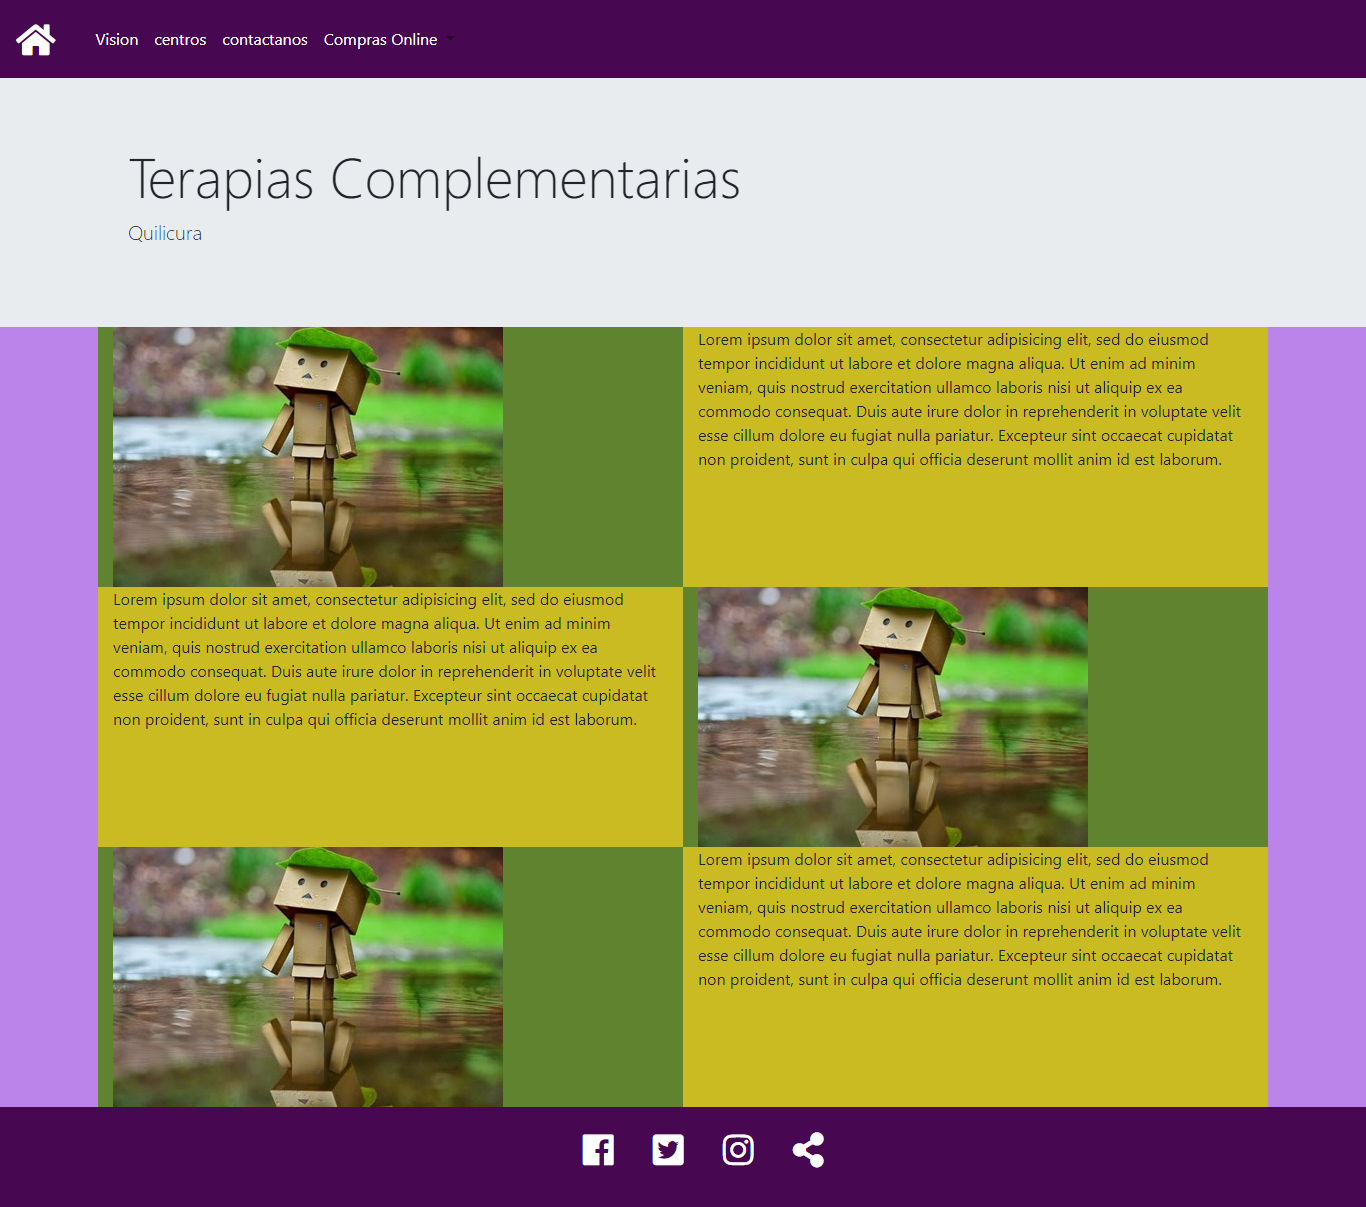
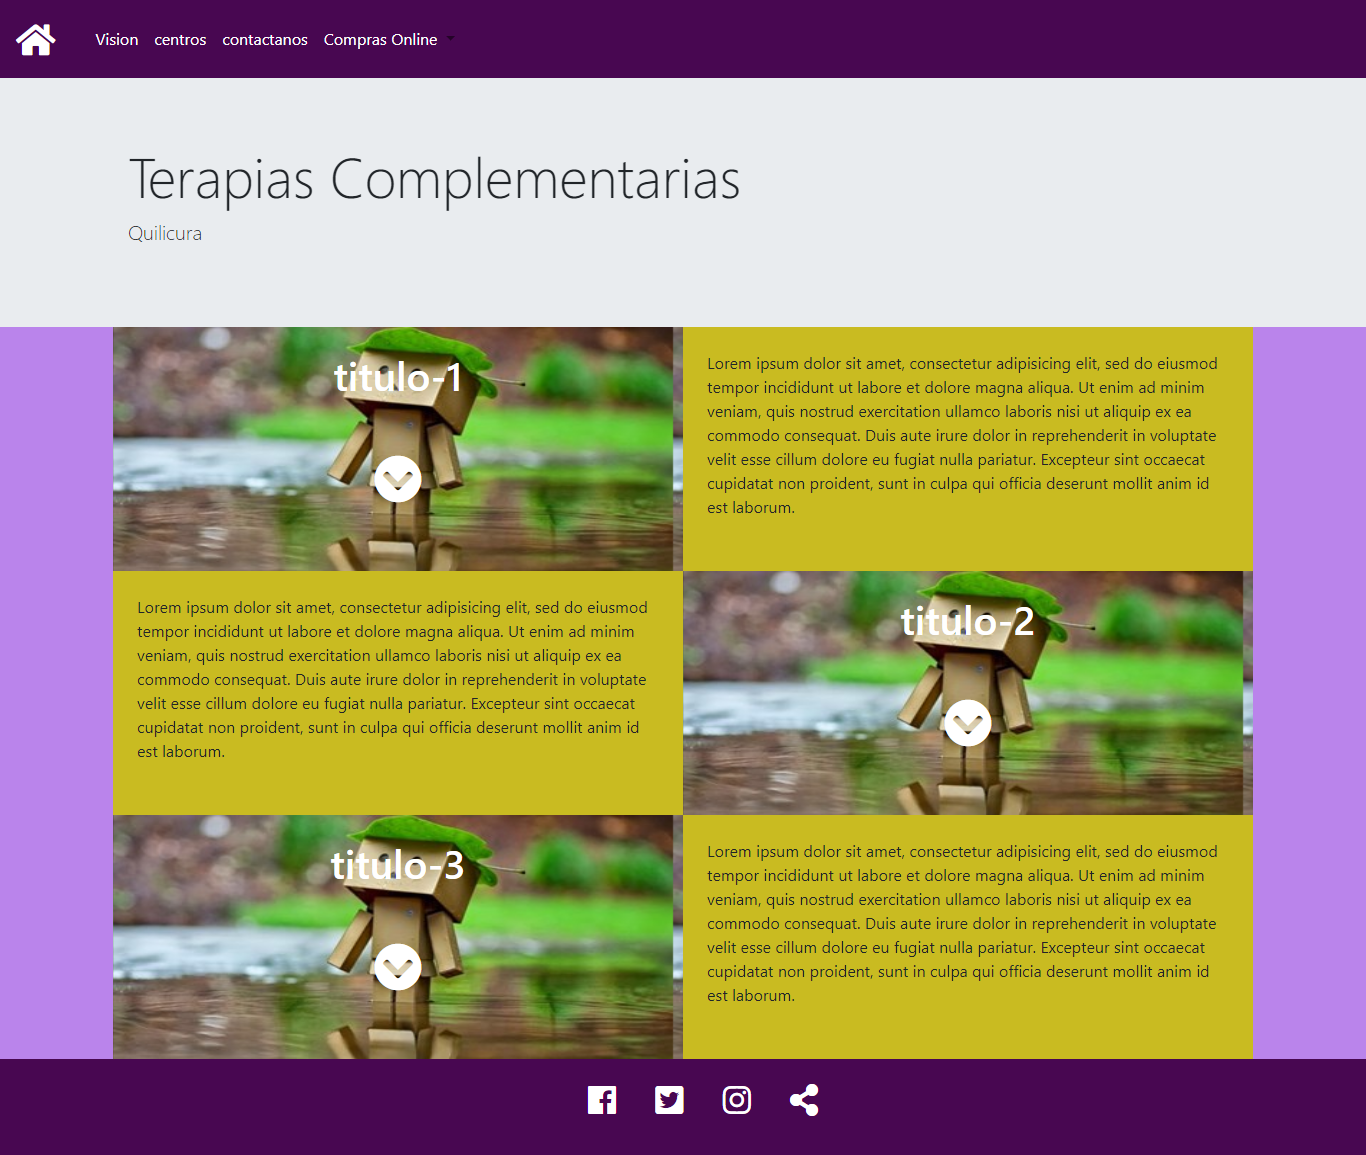
se agrega titulo, boton e icono a mockup y se modifica en README

diff --git a/index.html b/index.html
@@ -60,10 +60,11 @@
   <div class="container">
     <div class="row">
 <!--Articulo 1-->
-    <div class="col-md-6 img_color col-s-12">
-    <img src="https://www.desktopbackground.org/t/2013/10/27/660667_30-wallpapers-sad-boxman-full-hd_1366x768_h.jpg" alt="">
-    </div>
-    <div class="col-md-6 parrafo_color none"> Lorem ipsum dolor sit amet, consectetur adipisicing elit, sed do eiusmod
+    <div class="col-md-6 p-4 img_color col-s-12 fondo_fondo text-center">
+    <h1 class="main_font">titulo-1</h1>
+    <a href="https://www.google.cl/"><span class="main_ico"><i class="fas fa-chevron-circle-down"></i></span></a> 
+   </div>
+    <div class="col-md-6 p-4 parrafo_color none"> Lorem ipsum dolor sit amet, consectetur adipisicing elit, sed do eiusmod
      tempor incididunt ut labore et dolore magna aliqua. Ut enim ad minim veniam,
      quis nostrud exercitation ullamco laboris nisi ut aliquip ex ea commodo
      consequat. Duis aute irure dolor in reprehenderit in voluptate velit esse
@@ -71,21 +72,23 @@
      proident, sunt in culpa qui officia deserunt mollit anim id est laborum.
    </div>
 <!--Articulo 2-->
-   <div class="col-md-6 parrafo_color none"> Lorem ipsum dolor sit amet, consectetur adipisicing elit, sed do eiusmod
+   <div class="col-md-6 p-4 parrafo_color none"> Lorem ipsum dolor sit amet, consectetur adipisicing elit, sed do eiusmod
      tempor incididunt ut labore et dolore magna aliqua. Ut enim ad minim veniam,
      quis nostrud exercitation ullamco laboris nisi ut aliquip ex ea commodo
      consequat. Duis aute irure dolor in reprehenderit in voluptate velit esse
      cillum dolore eu fugiat nulla pariatur. Excepteur sint occaecat cupidatat non
      proident, sunt in culpa qui officia deserunt mollit anim id est laborum.
    </div>
-   <div class="col-md-6 img_color col-s-12"> 
-    <img src="https://www.desktopbackground.org/t/2013/10/27/660667_30-wallpapers-sad-boxman-full-hd_1366x768_h.jpg" alt="">
-  </div>
+   <div class="col-md-6 p-4 img_color col-s-12 fondo_fondo text-center">
+    <h1 class="main_font">titulo-2</h1>
+    <a href=""><span class="main_ico"><i class="fas fa-chevron-circle-down"></i></span></a>
+   </div>
 <!--Articulo 3-->
-  <div class="col-md-6 img_color col-s-12">
-    <img src="https://www.desktopbackground.org/t/2013/10/27/660667_30-wallpapers-sad-boxman-full-hd_1366x768_h.jpg" alt="">
-  </div>
-  <div class="col-md-6 parrafo_color none"> Lorem ipsum dolor sit amet, consectetur adipisicing elit, sed do eiusmod
+   <div class="col-md-6 p-4 img_color col-s-12 fondo_fondo text-center">
+   <h1 class="main_font">titulo-3</h1>
+   <a href=""><span class="main_ico"><i class="fas fa-chevron-circle-down"></i></span></a> 
+   </div>
+  <div class="col-md-6 p-4 parrafo_color none"> Lorem ipsum dolor sit amet, consectetur adipisicing elit, sed do eiusmod
    tempor incididunt ut labore et dolore magna aliqua. Ut enim ad minim veniam,
    quis nostrud exercitation ullamco laboris nisi ut aliquip ex ea commodo
    consequat. Duis aute irure dolor in reprehenderit in voluptate velit esse

diff --git a/assets/css/estilos.css b/assets/css/estilos.css
@@ -1,5 +1,5 @@
 .nav_color{
-	background-color: #480751;
+    background-color: #480751;
 }
 #nav_ico{
 	color: white;
@@ -16,6 +16,12 @@ h1 #font-size{
 	background-repeat: no-repeat;
 	background-size: 
 }
+.fondo_fondo{
+	background-image: url(https://www.desktopbackground.org/t/2013/10/27/660667_30-wallpapers-sad-boxman-full-hd_1366x768_h.jpg);
+	background-repeat: cover;
+	background-size: 35rem 20rem;
+
+}
 .img_color{
    background-color: #60832F;
 }
@@ -30,6 +36,14 @@ h1 #font-size{
 }
 .main_color{
 	background-color: #BA84EB;
+}
+.main_font{
+	color: white;
+}
+.main_ico{
+	color: white;
+	font-size: 3rem;
+	line-height: 140px;
 }
 .footer_color{
 	background-color: #480751;
